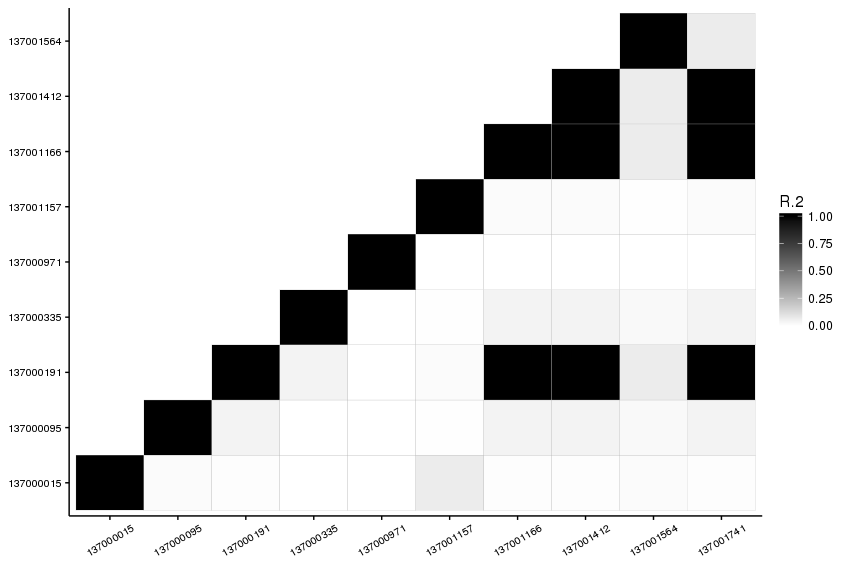
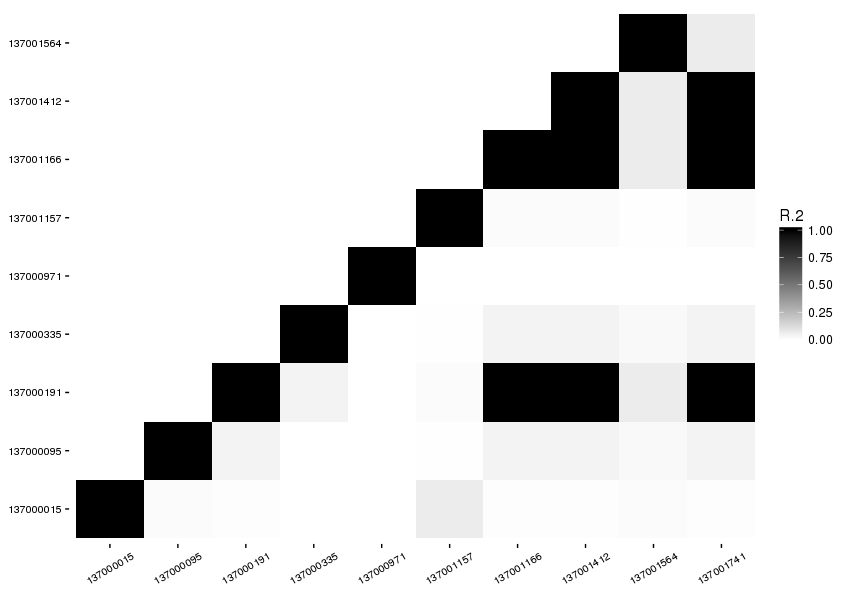
Update example.

diff --git a/README.md b/README.md
@@ -15,8 +15,12 @@ vcftools --gzvcf example_LD_haploview_10_snps_beagle.vcf.gz --out ld_test_10SNPs
 ```
 
 ## Example
+The package includes a small example dataset.
 
-`plot_LDmatrix(ld_test_10SNPs.hap)`
+```{R}
+data("bovine_vcf")
+plot_LDmatrix(bovine_vcf)
+```
 
 ![Example plot](/data/Rplot.png)
 
